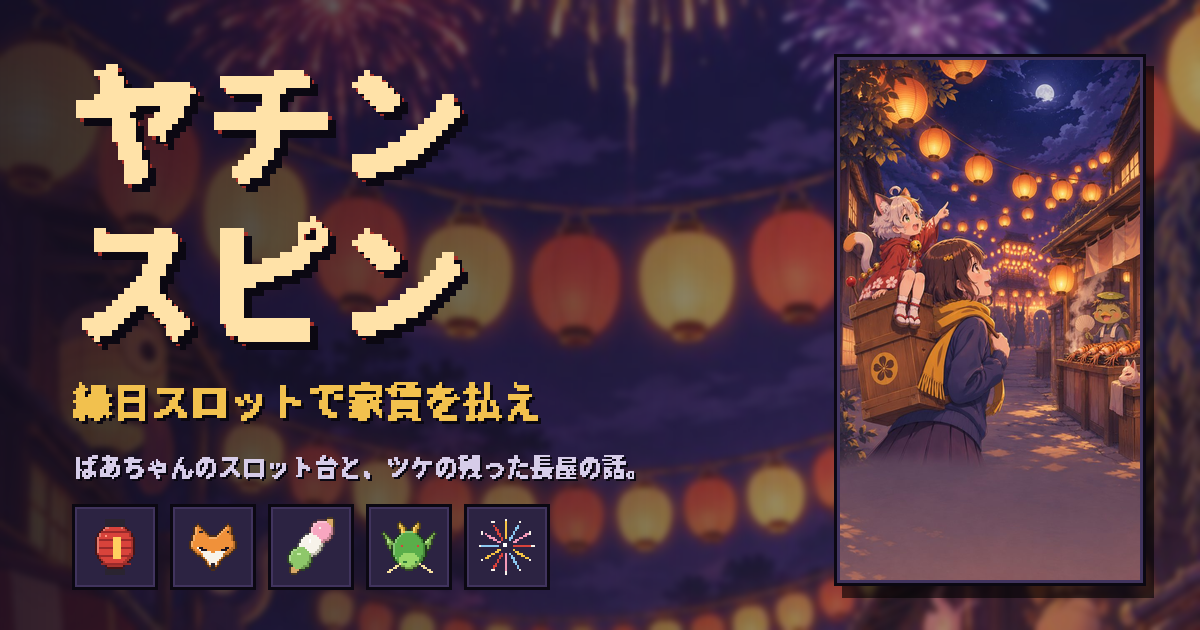
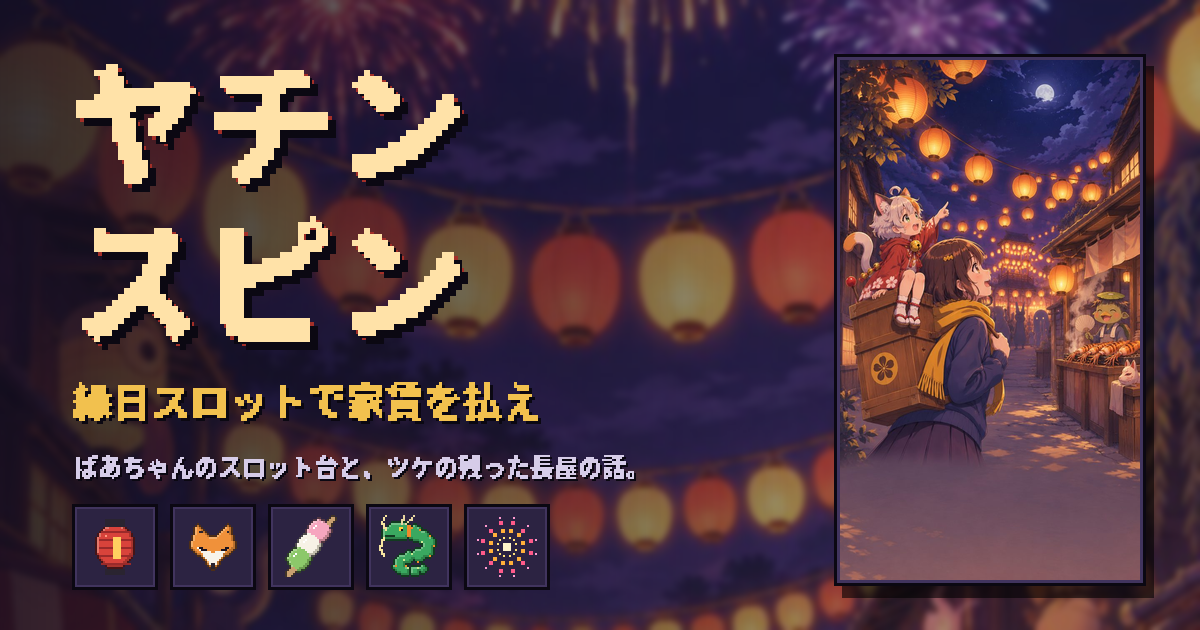
シリーズ名「よいまつり横丁」を入れる
- タイトル画面のロゴの上、共有画像（ogp.png）、結果画像、ポストの文（#よいまつり横丁）、og:site_name
- tools/ogp_series.py：元の絵からogp.pngを作り直してシリーズ名を入れる
- tools/ogp.py：読みこんだだけでファイルを書き出さないように main() にまとめる

Claude-Session: https://claude.ai/code/session_01BmtfgFZMFEJWS2VowzmxfW

Changed region(s): [[0.3083, 0.8143, 0.37, 0.9349], [0.4008, 0.8143, 0.4625, 0.9048], [0.2467, 0.8143, 0.2775, 0.9048]]

diff --git a/index.html b/index.html
@@ -6,7 +6,7 @@
 <title>ヤチンスピン — 縁日スロットで家賃を払え</title>
 <meta name="description" content="ばあちゃんのスロット台と、ツケの残った長屋の話。スロットをまわして縁銭を稼ぎ、妖怪の横丁で家賃を払いつづけるブラウザゲーム。">
 <meta property="og:type" content="website">
-<meta property="og:site_name" content="ヤチンスピン">
+<meta property="og:site_name" content="よいまつり横丁">
 <meta property="og:title" content="ヤチンスピン — 縁日スロットで家賃を払え">
 <meta property="og:description" content="ばあちゃんのスロット台と、ツケの残った長屋の話。スロットをまわして縁銭を稼ぎ、妖怪の横丁で家賃を払いつづけるブラウザゲーム。">
 <meta property="og:url" content="https://m0ch4771.github.io/yachin-spin/">
@@ -59,6 +59,8 @@ button{font-family:inherit;color:inherit;cursor:pointer;touch-action:manipulatio
 
 /* タイトル */
 .title-logo{text-align:center;margin:20px 0 4px}
+.title-logo .series{display:flex;align-items:center;justify-content:center;gap:10px;font-size:14px;letter-spacing:.3em;color:#ffd696;text-shadow:2px 2px 0 #78201e;margin-bottom:10px}
+.title-logo .series::before,.title-logo .series::after{content:'';width:26px;height:3px;background:#ffd696;box-shadow:2px 2px 0 #78201e}
 .title-logo .big{font-size:46px;line-height:1.05;color:#ffe2a8;text-shadow:4px 4px 0 #a32f28, 8px 8px 0 #0b0812}
 .title-logo .sub{color:var(--mute);font-size:14px;letter-spacing:.2em;margin-top:12px}
 .title-reels{display:flex;justify-content:center;gap:8px;margin:16px 0 6px}
@@ -403,6 +405,7 @@ a.btn{display:block;text-align:center;text-decoration:none;color:#fff;background
 <div class="wrap" id="titleScreen">
   <div class="lanterns"><span>🏮</span><span>🏮</span><span>🏮</span><span>🏮</span><span>🏮</span><span>🏮</span><span>🏮</span><span>🏮</span><span>🏮</span><span>🏮</span></div>
   <div class="title-logo">
+    <div class="series">よいまつり横丁</div>
     <div class="big">ヤチン<br>スピン</div>
     <div class="sub">縁日スロットで家賃を払え</div>
   </div>
@@ -3105,6 +3108,7 @@ async function makeResultImage(S) {
   for (let k = 0; k < 12; k++) drawSpr(ctx, img, 'lantern', 18 + k * 99, 8 + Math.round(Math.sin(k / 11 * Math.PI) * 10), 40);
   const R = resultInfo(S);
   // 左：タイトルと記録
+  txt(ctx, '― よいまつり横丁 ―', 58, 76, 20, '#ffd696');
   txt(ctx, 'ヤチンスピン', 56, 128, 54, '#ffe2a8');
   txt(ctx, R.mode, 58, 186, 30, R.color);
   txt(ctx, R.big, 54, 286, 84, '#f2c14e');
@@ -3132,7 +3136,7 @@ async function makeResultImage(S) {
     txt(ctx, 'お守り', 740, yb + 30, 20, '#b0a3c8');
     S.items.slice(0, 8).forEach((k, j) => drawSpr(ctx, img, 'i_' + k, 740 + (j % 8) * 52, yb + 44, 44));
   }
-  txt(ctx, '#ヤチンスピン　m0ch4771.github.io/yachin-spin', W - 50, H - 16, 20, '#e2d8f2', 'right');
+  txt(ctx, '#ヤチンスピン #よいまつり横丁　m0ch4771.github.io/yachin-spin', W - 50, H - 16, 20, '#e2d8f2', 'right');
   return await new Promise(ok => c.toBlob(ok, 'image/png'));
 }
 function intentUrl(text) { return `https://twitter.com/intent/tweet?text=${encodeURIComponent(text)}&url=${encodeURIComponent(GAME_URL)}`; }
@@ -3140,7 +3144,7 @@ async function shareResult() {
   const S = st, btn = $('#eShareImg'), label = btn ? btn.innerHTML : '';
   if (S.daily) {
     const r = S.rank && S.rank.result, top = Object.entries(S.inv.reduce((m, s) => (m[s.key] = (m[s.key] || 0) + 1, m), {})).sort((a, b) => b[1] - a[1]).slice(0, 6).map(([k]) => E(k)).join('');
-    shareText = `ヤチンスピン【デイリー ${S.daily}】\n家賃${S.rentIdx}回🎯${r && r.rank ? `今日の${r.rank}位/${r.total}人` : ''}\nお題：${CURSES[S.fixedCurse].n}\n編成：${top}\n#ヤチンスピン`;
+    shareText = `ヤチンスピン【デイリー ${S.daily}】\n家賃${S.rentIdx}回🎯${r && r.rank ? `今日の${r.rank}位/${r.total}人` : ''}\nお題：${CURSES[S.fixedCurse].n}\n編成：${top}\n#ヤチンスピン #よいまつり横丁`;
   }
   const mobile = matchMedia('(pointer: coarse)').matches && navigator.canShare;
   const win = mobile ? null : window.open('', '_blank');   // ポップアップ止めにかからないよう、先にひらいておく
@@ -3225,7 +3229,7 @@ function showEndEndless() {
     ['合計かせぎ', st.totalEarned], ['アイテム', st.items.length], ['依頼の達成', st.stats.quests],
   ].map(([a, b]) => `<div class="stat"><b>${b}</b><span>${a}</span></div>`).join('');
   const top = Object.entries(st.inv.reduce((m, s) => (m[s.key] = (m[s.key] || 0) + 1, m), {})).sort((a, b) => b[1] - a[1]).slice(0, 6).map(([k]) => E(k)).join('');
-  const text = `ヤチンスピン【エンドレス】\n家賃${n}回・第${sg}段まで住んだ🏮${isNew ? '（自己ベスト）' : ''}\n最高1スピン${st.best}コイン\n編成：${top}\n#ヤチンスピン`;
+  const text = `ヤチンスピン【エンドレス】\n家賃${n}回・第${sg}段まで住んだ🏮${isNew ? '（自己ベスト）' : ''}\n最高1スピン${st.best}コイン\n編成：${top}\n#ヤチンスピン #よいまつり横丁`;
   shareText = text;
   $('#endBtns').innerHTML = `<button class="btn gold" id="eShareImg">𝕏 で記録をポストする</button>` +
     `<button class="btn primary" id="eAgain">もう一回（エンドレス）</button><button class="btn" id="eTitle">🏮 タイトルへ</button>`;
@@ -3252,7 +3256,7 @@ function showEnd(win) {
   const its = st.items.slice(0, 6).map(k => ITEMS[k].e).join('');
   const label = CH ? `ストーリー${CH.n}` : st.daily ? `デイリー${st.daily}` : D.n;
   const head = st.daily ? `ヤチンスピン【デイリー ${st.daily}】家賃${Math.min(st.rentIdx, T)}/${T}回${win ? '👑' : ''}` : CH && win ? `ヤチンスピン【${label}「${CH.t}」】クリア🏮` : win ? `ヤチンスピン【${D.n}】クリア🎆` : st.endless ? `ヤチンスピン【${D.n}】エンドレス${st.rentIdx - T}回♾` : `ヤチンスピン【${D.n}】家賃${st.rentIdx}/${T}回🏠`;
-  const text = `${head}\n最高1スピン${st.best}コイン\n編成：${top}${its ? `\nお守り：${its}` : ''}\n#ヤチンスピン`;
+  const text = `${head}\n最高1スピン${st.best}コイン\n編成：${top}${its ? `\nお守り：${its}` : ''}\n#ヤチンスピン #よいまつり横丁`;
   shareText = text;
   const share = `<button class="btn" id="eShareImg">𝕏 でポストする</button>`;
   const nextCh = CH && win && CH.id < 4 ? CHAPTERS[CH.id] : null;

diff --git a/src/ui.html b/src/ui.html
@@ -6,7 +6,7 @@
 <title>ヤチンスピン — 縁日スロットで家賃を払え</title>
 <meta name="description" content="ばあちゃんのスロット台と、ツケの残った長屋の話。スロットをまわして縁銭を稼ぎ、妖怪の横丁で家賃を払いつづけるブラウザゲーム。">
 <meta property="og:type" content="website">
-<meta property="og:site_name" content="ヤチンスピン">
+<meta property="og:site_name" content="よいまつり横丁">
 <meta property="og:title" content="ヤチンスピン — 縁日スロットで家賃を払え">
 <meta property="og:description" content="ばあちゃんのスロット台と、ツケの残った長屋の話。スロットをまわして縁銭を稼ぎ、妖怪の横丁で家賃を払いつづけるブラウザゲーム。">
 <meta property="og:url" content="https://m0ch4771.github.io/yachin-spin/">
@@ -59,6 +59,8 @@ button{font-family:inherit;color:inherit;cursor:pointer;touch-action:manipulatio
 
 /* タイトル */
 .title-logo{text-align:center;margin:20px 0 4px}
+.title-logo .series{display:flex;align-items:center;justify-content:center;gap:10px;font-size:14px;letter-spacing:.3em;color:#ffd696;text-shadow:2px 2px 0 #78201e;margin-bottom:10px}
+.title-logo .series::before,.title-logo .series::after{content:'';width:26px;height:3px;background:#ffd696;box-shadow:2px 2px 0 #78201e}
 .title-logo .big{font-size:46px;line-height:1.05;color:#ffe2a8;text-shadow:4px 4px 0 #a32f28, 8px 8px 0 #0b0812}
 .title-logo .sub{color:var(--mute);font-size:14px;letter-spacing:.2em;margin-top:12px}
 .title-reels{display:flex;justify-content:center;gap:8px;margin:16px 0 6px}
@@ -403,6 +405,7 @@ a.btn{display:block;text-align:center;text-decoration:none;color:#fff;background
 <div class="wrap" id="titleScreen">
   <div class="lanterns"><span>🏮</span><span>🏮</span><span>🏮</span><span>🏮</span><span>🏮</span><span>🏮</span><span>🏮</span><span>🏮</span><span>🏮</span><span>🏮</span></div>
   <div class="title-logo">
+    <div class="series">よいまつり横丁</div>
     <div class="big">ヤチン<br>スピン</div>
     <div class="sub">縁日スロットで家賃を払え</div>
   </div>
@@ -1757,6 +1760,7 @@ async function makeResultImage(S) {
   for (let k = 0; k < 12; k++) drawSpr(ctx, img, 'lantern', 18 + k * 99, 8 + Math.round(Math.sin(k / 11 * Math.PI) * 10), 40);
   const R = resultInfo(S);
   // 左：タイトルと記録
+  txt(ctx, '― よいまつり横丁 ―', 58, 76, 20, '#ffd696');
   txt(ctx, 'ヤチンスピン', 56, 128, 54, '#ffe2a8');
   txt(ctx, R.mode, 58, 186, 30, R.color);
   txt(ctx, R.big, 54, 286, 84, '#f2c14e');
@@ -1784,7 +1788,7 @@ async function makeResultImage(S) {
     txt(ctx, 'お守り', 740, yb + 30, 20, '#b0a3c8');
     S.items.slice(0, 8).forEach((k, j) => drawSpr(ctx, img, 'i_' + k, 740 + (j % 8) * 52, yb + 44, 44));
   }
-  txt(ctx, '#ヤチンスピン　m0ch4771.github.io/yachin-spin', W - 50, H - 16, 20, '#e2d8f2', 'right');
+  txt(ctx, '#ヤチンスピン #よいまつり横丁　m0ch4771.github.io/yachin-spin', W - 50, H - 16, 20, '#e2d8f2', 'right');
   return await new Promise(ok => c.toBlob(ok, 'image/png'));
 }
 function intentUrl(text) { return `https://twitter.com/intent/tweet?text=${encodeURIComponent(text)}&url=${encodeURIComponent(GAME_URL)}`; }
@@ -1792,7 +1796,7 @@ async function shareResult() {
   const S = st, btn = $('#eShareImg'), label = btn ? btn.innerHTML : '';
   if (S.daily) {
     const r = S.rank && S.rank.result, top = Object.entries(S.inv.reduce((m, s) => (m[s.key] = (m[s.key] || 0) + 1, m), {})).sort((a, b) => b[1] - a[1]).slice(0, 6).map(([k]) => E(k)).join('');
-    shareText = `ヤチンスピン【デイリー ${S.daily}】\n家賃${S.rentIdx}回🎯${r && r.rank ? `今日の${r.rank}位/${r.total}人` : ''}\nお題：${CURSES[S.fixedCurse].n}\n編成：${top}\n#ヤチンスピン`;
+    shareText = `ヤチンスピン【デイリー ${S.daily}】\n家賃${S.rentIdx}回🎯${r && r.rank ? `今日の${r.rank}位/${r.total}人` : ''}\nお題：${CURSES[S.fixedCurse].n}\n編成：${top}\n#ヤチンスピン #よいまつり横丁`;
   }
   const mobile = matchMedia('(pointer: coarse)').matches && navigator.canShare;
   const win = mobile ? null : window.open('', '_blank');   // ポップアップ止めにかからないよう、先にひらいておく
@@ -1877,7 +1881,7 @@ function showEndEndless() {
     ['合計かせぎ', st.totalEarned], ['アイテム', st.items.length], ['依頼の達成', st.stats.quests],
   ].map(([a, b]) => `<div class="stat"><b>${b}</b><span>${a}</span></div>`).join('');
   const top = Object.entries(st.inv.reduce((m, s) => (m[s.key] = (m[s.key] || 0) + 1, m), {})).sort((a, b) => b[1] - a[1]).slice(0, 6).map(([k]) => E(k)).join('');
-  const text = `ヤチンスピン【エンドレス】\n家賃${n}回・第${sg}段まで住んだ🏮${isNew ? '（自己ベスト）' : ''}\n最高1スピン${st.best}コイン\n編成：${top}\n#ヤチンスピン`;
+  const text = `ヤチンスピン【エンドレス】\n家賃${n}回・第${sg}段まで住んだ🏮${isNew ? '（自己ベスト）' : ''}\n最高1スピン${st.best}コイン\n編成：${top}\n#ヤチンスピン #よいまつり横丁`;
   shareText = text;
   $('#endBtns').innerHTML = `<button class="btn gold" id="eShareImg">𝕏 で記録をポストする</button>` +
     `<button class="btn primary" id="eAgain">もう一回（エンドレス）</button><button class="btn" id="eTitle">🏮 タイトルへ</button>`;
@@ -1904,7 +1908,7 @@ function showEnd(win) {
   const its = st.items.slice(0, 6).map(k => ITEMS[k].e).join('');
   const label = CH ? `ストーリー${CH.n}` : st.daily ? `デイリー${st.daily}` : D.n;
   const head = st.daily ? `ヤチンスピン【デイリー ${st.daily}】家賃${Math.min(st.rentIdx, T)}/${T}回${win ? '👑' : ''}` : CH && win ? `ヤチンスピン【${label}「${CH.t}」】クリア🏮` : win ? `ヤチンスピン【${D.n}】クリア🎆` : st.endless ? `ヤチンスピン【${D.n}】エンドレス${st.rentIdx - T}回♾` : `ヤチンスピン【${D.n}】家賃${st.rentIdx}/${T}回🏠`;
-  const text = `${head}\n最高1スピン${st.best}コイン\n編成：${top}${its ? `\nお守り：${its}` : ''}\n#ヤチンスピン`;
+  const text = `${head}\n最高1スピン${st.best}コイン\n編成：${top}${its ? `\nお守り：${its}` : ''}\n#ヤチンスピン #よいまつり横丁`;
   shareText = text;
   const share = `<button class="btn" id="eShareImg">𝕏 でポストする</button>`;
   const nextCh = CH && win && CH.id < 4 ? CHAPTERS[CH.id] : null;

diff --git a/tools/ogp.py b/tools/ogp.py
@@ -33,39 +33,44 @@ def frame(img, pad=6):
     return f
 
 # 背景：なつまつりの通りを横長に切って、ぼかして暗くする
-bg = Image.open(p('bg', 'festival.jpg')).convert('RGB')
-bg = bg.resize((W, round(bg.height * W / bg.width)), Image.LANCZOS).crop((0, 330, W, 330 + H)).filter(ImageFilter.GaussianBlur(3))
-shade = Image.new('L', (W, H))
-for x in range(W): shade.paste(int(215 - 120 * min(1, x / 900)), (x, 0, x + 1, H))
-canvas = Image.composite(Image.new('RGB', (W, H), (16, 11, 28)), bg, shade).convert('RGBA')
+def main():
+    bg = Image.open(p('bg', 'festival.jpg')).convert('RGB')
+    bg = bg.resize((W, round(bg.height * W / bg.width)), Image.LANCZOS).crop((0, 330, W, 330 + H)).filter(ImageFilter.GaussianBlur(3))
+    shade = Image.new('L', (W, H))
+    for x in range(W): shade.paste(int(215 - 120 * min(1, x / 900)), (x, 0, x + 1, H))
+    canvas = Image.composite(Image.new('RGB', (W, H), (16, 11, 28)), bg, shade).convert('RGBA')
 
-# 右：はじめての横丁の挿絵をカードにする
-cg = Image.open(p('cg', 'yokocho.jpg')).convert('RGB')
-card = cg.resize((300, round(cg.height * 300 / cg.width)), Image.LANCZOS).crop((0, 0, 300, 520))
-card = frame(card.convert('RGBA'))
-sh = Image.new('RGBA', card.size, (0, 0, 0, 150)).filter(ImageFilter.GaussianBlur(8))
-canvas.alpha_composite(sh, (W - card.width - 46, 66))
-canvas.alpha_composite(card, (W - card.width - 54, 54))
+    # 右：はじめての横丁の挿絵をカードにする
+    cg = Image.open(p('cg', 'yokocho.jpg')).convert('RGB')
+    card = cg.resize((300, round(cg.height * 300 / cg.width)), Image.LANCZOS).crop((0, 0, 300, 520))
+    card = frame(card.convert('RGBA'))
+    sh = Image.new('RGBA', card.size, (0, 0, 0, 150)).filter(ImageFilter.GaussianBlur(8))
+    canvas.alpha_composite(sh, (W - card.width - 46, 66))
+    canvas.alpha_composite(card, (W - card.width - 54, 54))
 
-# 左：タイトル（ドット文字）
-sd = lambda s: [(s * 2, s * 2, RED), (s * 4, s * 4, EDGE)]
-y = 58
-for line in ('ヤチン', 'スピン'):
-    t = pixel_text(line, 22, 6, INK, sd(2)); canvas.alpha_composite(t, (64, y)); y += t.height - 10
-sub = pixel_text('縁日スロットで家賃を払え', 13, 3, GOLD, [(3, 3, EDGE)]); canvas.alpha_composite(sub, (70, y + 14))
-tag = pixel_text('ばあちゃんのスロット台と、ツケの残った長屋の話。', 12, 2, MUTE, [(2, 2, EDGE)]); canvas.alpha_composite(tag, (72, y + 14 + sub.height + 12))
+    # 左：タイトル（ドット文字）
+    sd = lambda s: [(s * 2, s * 2, RED), (s * 4, s * 4, EDGE)]
+    y = 58
+    for line in ('ヤチン', 'スピン'):
+        t = pixel_text(line, 22, 6, INK, sd(2)); canvas.alpha_composite(t, (64, y)); y += t.height - 10
+    sub = pixel_text('縁日スロットで家賃を払え', 13, 3, GOLD, [(3, 3, EDGE)]); canvas.alpha_composite(sub, (70, y + 14))
+    tag = pixel_text('ばあちゃんのスロット台と、ツケの残った長屋の話。', 12, 2, MUTE, [(2, 2, EDGE)]); canvas.alpha_composite(tag, (72, y + 14 + sub.height + 12))
 
-# 下：タイトル画面と同じシンボルの並び
-sheet = Image.open(p('art', 'sheet.png')).convert('RGBA'); idx = json.load(open(p('art', 'sheet.json')))['idx']
-cell = lambda k: sheet.crop(((idx[k] % 16) * 32, (idx[k] // 16) * 32, (idx[k] % 16) * 32 + 32, (idx[k] // 16) * 32 + 32))
-x = 72
-for k in ('lantern', 'fox', 'dango', 'dragon', 'firework'):
-    box = Image.new('RGBA', (76, 76), (44, 35, 66, 255))
-    box.alpha_composite(cell(k).resize((64, 64), Image.NEAREST), (6, 6))
-    b = frame(box, 5); canvas.alpha_composite(b, (x, H - b.height - 40)); x += b.width + 12
-canvas.convert('RGB').save(p('art', 'ogp', 'ogp_dot.png'), optimize=True)
+    # 下：タイトル画面と同じシンボルの並び
+    sheet = Image.open(p('art', 'sheet.png')).convert('RGBA'); idx = json.load(open(p('art', 'sheet.json')))['idx']
+    cell = lambda k: sheet.crop(((idx[k] % 16) * 32, (idx[k] // 16) * 32, (idx[k] % 16) * 32 + 32, (idx[k] // 16) * 32 + 32))
+    x = 72
+    for k in ('lantern', 'fox', 'dango', 'dragon', 'firework'):
+        box = Image.new('RGBA', (76, 76), (44, 35, 66, 255))
+        box.alpha_composite(cell(k).resize((64, 64), Image.NEAREST), (6, 6))
+        b = frame(box, 5); canvas.alpha_composite(b, (x, H - b.height - 40)); x += b.width + 12
+    canvas.convert('RGB').save(p('art', 'ogp', 'ogp_dot.png'), optimize=True)
 
-# タブのアイコン：提灯のドット絵
-ic = Image.new('RGBA', (64, 64), (0, 0, 0, 0)); ic.alpha_composite(cell('lantern').resize((64, 64), Image.NEAREST))
-ic.save(p('favicon.png'))
-print('art/ogp/ogp_dot.png', os.path.getsize(p('ogp.png')) // 1024, 'KB / favicon.png')
+    # タブのアイコン：提灯のドット絵
+    ic = Image.new('RGBA', (64, 64), (0, 0, 0, 0)); ic.alpha_composite(cell('lantern').resize((64, 64), Image.NEAREST))
+    ic.save(p('favicon.png'))
+    print('art/ogp/ogp_dot.png', os.path.getsize(p('ogp.png')) // 1024, 'KB / favicon.png')
+
+
+if __name__ == '__main__':
+    main()

diff --git a/tools/ogp_series.py b/tools/ogp_series.py
@@ -1,0 +1,23 @@
+# 共有用の画像（ogp.png）を、元の絵（art/ogp/ogp_original.png）から作り直して、
+# タイトルの上にシリーズ名「よいまつり横丁」を入れる
+# 使い方：python3 tools/ogp_series.py
+import os, sys
+from PIL import Image
+sys.path.insert(0, os.path.dirname(os.path.abspath(__file__)))
+from ogp import pixel_text, p, W, H
+
+SERIES = 'よいまつり横丁'
+im = Image.open(p('art', 'ogp', 'ogp_original.png')).convert('RGB')
+w, h = im.size; tw = round(h * W / H); x0 = (w - tw) // 2
+im = im.crop((x0, 0, x0 + tw, h)).resize((W, H), Image.LANCZOS).convert('RGBA')
+# 左右に小さな線をつけた「― よいまつり横丁 ―」
+t = pixel_text(SERIES, 14, 3, (255, 214, 150), shadow=[(3, 3, (120, 30, 30)), (5, 5, (11, 8, 18))])
+cx, top = 283, 82                       # タイトル「ヤチンスピン」の中央の上（夜空の部分）
+x = cx - t.width // 2
+im.alpha_composite(t, (x, top))
+line_y = top + t.height // 2 - 4
+for (a, b) in ((x - 46, x - 12), (x + t.width + 6, x + t.width + 40)):
+    for dy, c in ((0, (255, 214, 150, 255)), (3, (120, 30, 30, 255))):
+        im.alpha_composite(Image.new('RGBA', (b - a, 3), c), (a + (dy and 2), line_y + dy))
+im.convert('RGB').save(p('ogp.png'), optimize=True)
+print('ogp.png', os.path.getsize(p('ogp.png')) // 1024, 'KB')
